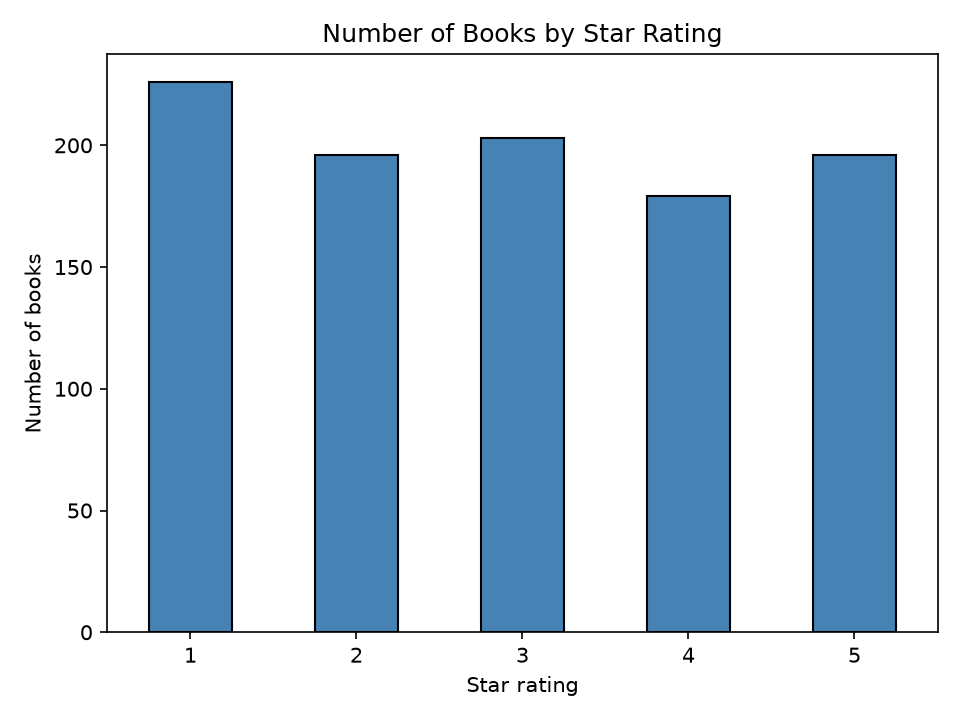
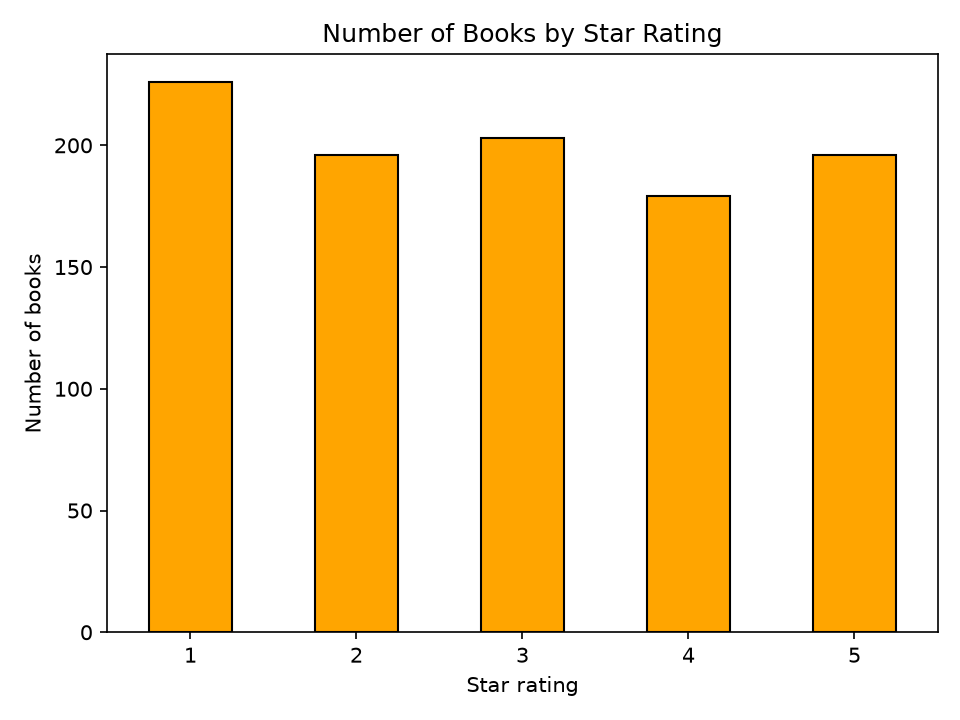
updated Code

diff --git a/A2/bookstore_scraper.py b/A2/bookstore_scraper.py
@@ -136,7 +136,7 @@ def analyse(df):
     out.append(f"Total cost: £{sel.Price.sum():.2f}")
     out.append(f"Total rating score: {sel.Rating.sum()}")
 
-    ax = counts.plot(kind="bar", color="steelblue", edgecolor="black")  # BONUS 4
+    ax = counts.plot(kind="bar", color="orange", edgecolor="black")  # BONUS 4
     ax.set_title("Number of Books by Star Rating")
     ax.set_xlabel("Star rating"); ax.set_ylabel("Number of books")
     plt.xticks(rotation=0); plt.tight_layout()
